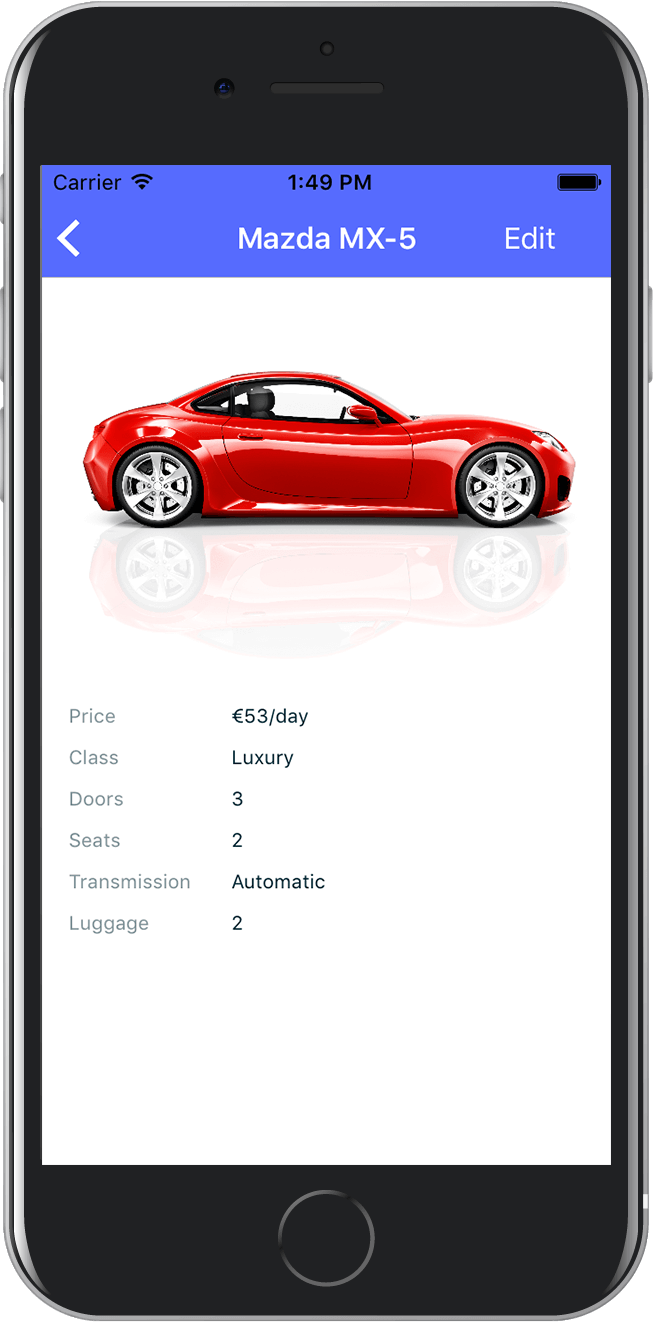
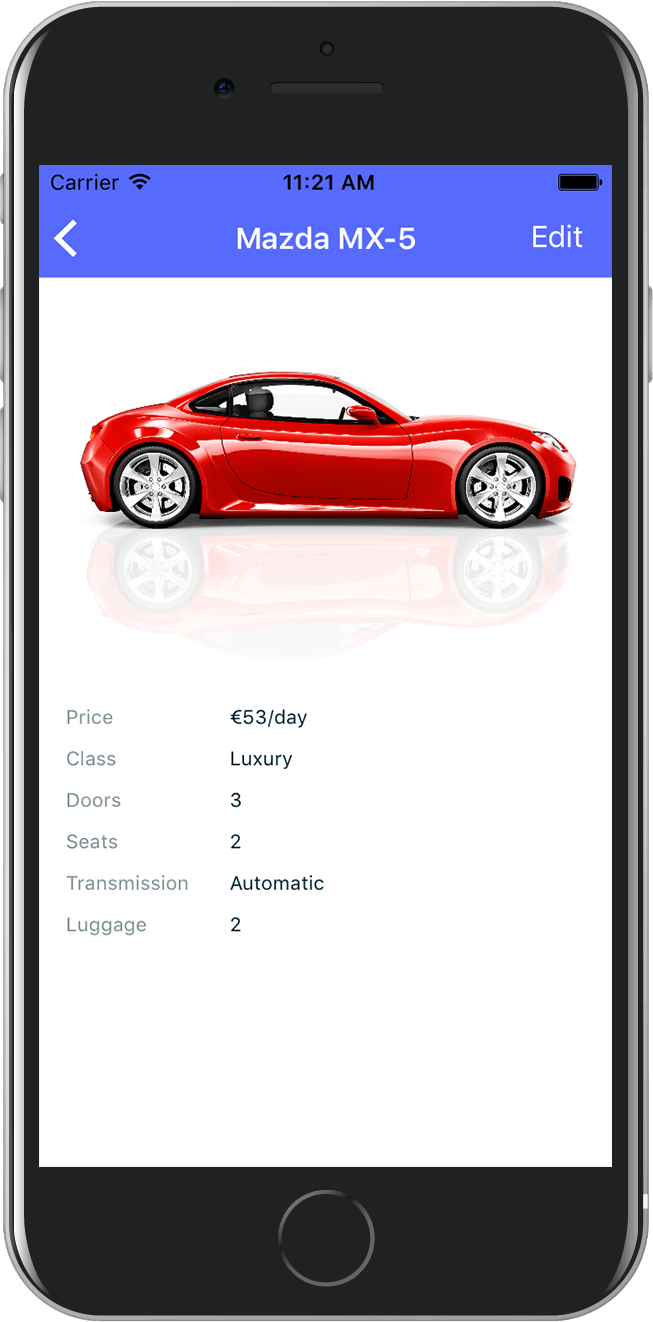
UI fixes (#43)
* Ui fizes

 - Fix anction items right offset  - #346458
 - Add missing page transitions

* Hide back button on list page for ios

* Update detail page image

* Remove lint error

diff --git a/cars/car-detail-edit/car-detail-edit.component.ts b/cars/car-detail-edit/car-detail-edit.component.ts
@@ -139,7 +139,15 @@ export class CarDetailEditComponent implements OnInit {
         queue.then(() => this._carService.update(this._car))
             .then(() => {
                 this._isUpdating = false;
-                this._routerExtensions.navigate(["/cars"], { clearHistory: true });
+                this._routerExtensions.navigate(["/cars"], {
+                    clearHistory: true,
+                    animated: true,
+                    transition: {
+                        name: "slideBottom",
+                        duration: 200,
+                        curve: "ease"
+                    }
+                });
             })
             .catch((errorMessage: any) => {
                 this._isUpdating = false;
@@ -153,7 +161,15 @@ export class CarDetailEditComponent implements OnInit {
         const readOnlyMessage = "Check out the \"Firebase database setup\" section in the readme file to make it editable."; // tslint:disable-line:max-line-length
         const queue = Promise.resolve();
         queue.then(() => alert({ title: "Read-Only Template!", message: readOnlyMessage, okButtonText: "Ok" }))
-            .then(() => this._routerExtensions.navigate(["/cars"], { clearHistory: true }));
+            .then(() => this._routerExtensions.navigate(["/cars"], {
+                clearHistory: true,
+                animated: true,
+                transition: {
+                    name: "slideBottom",
+                    duration: 200,
+                    curve: "ease"
+                }
+            }));
     }
 
     onImageAddRemove(args): void {

diff --git a/cars/car-detail-edit/car-detail-edit.component.html b/cars/car-detail-edit/car-detail-edit.component.html
@@ -2,11 +2,11 @@
     <!--HACK - we should remove the navigation button-->
     <NavigationButton visibility="collapsed"></NavigationButton>
     <ActionItem ios.position="left" android.position="left" (tap)="onCancelButtonTap()">
-        <Label text="Cancel" class="action-item p-r-15"></Label>
+        <Label text="Cancel" class="action-item"></Label>
     </ActionItem>
     <Label class="action-bar-title" text="Edit Car Details" horizontalAlignment="center"></Label>
     <ActionItem ios.position="right" android.position="right" (tap)="onDoneButtonTap()">
-        <Label text="Done" class="action-item p-r-15"></Label>
+        <Label text="Done" class="action-item"></Label>
     </ActionItem>
 </ActionBar>
 

diff --git a/cars/car-detail/car-detail.component.ts b/cars/car-detail/car-detail.component.ts
@@ -61,6 +61,14 @@ export class CarDetailComponent implements OnInit {
     * Check out the edit page in the /cars/car-detail-edit folder.
     *************************************************************/
     onEditButtonTap(): void {
-        this._routerExtensions.navigate(["/cars/car-detail-edit", this._car.id]);
+        this._routerExtensions.navigate(["/cars/car-detail-edit", this._car.id],
+        {
+            animated: true,
+            transition: {
+                name: "slideTop",
+                duration: 200,
+                curve: "ease"
+            }
+        });
     }
 }

diff --git a/cars/car-list.component.ts b/cars/car-list.component.ts
@@ -64,6 +64,14 @@ export class CarListComponent implements OnInit {
     onCarItemTap(args: ListViewEventData): void {
         const tappedCarItem = args.view.bindingContext;
 
-        this._routerExtensions.navigate(["/cars/car-detail", tappedCarItem.id]);
+        this._routerExtensions.navigate(["/cars/car-detail", tappedCarItem.id],
+        {
+            animated: true,
+            transition: {
+                name: "slide",
+                duration: 200,
+                curve: "ease"
+            }
+        });
     }
 }

diff --git a/cars/car-detail/car-detail.component.html b/cars/car-detail/car-detail.component.html
@@ -8,7 +8,7 @@
         ios.position="right" 
         android.position="right" 
         (tap)="onEditButtonTap()">
-        <Label text="Edit" class="action-item p-r-15"></Label>
+        <Label text="Edit" class="action-item"></Label>
     </ActionItem>
 </ActionBar>
 

diff --git a/cars/car-list.component.html b/cars/car-list.component.html
@@ -1,4 +1,6 @@
 <ActionBar class="action-bar">
+    <!-- Should remove the navigation button -->
+    <NavigationButton ios:visibility="collapsed"></NavigationButton>
     <Label class="action-bar-title" text="Browse" horizontalAlignment="center"></Label>
 </ActionBar>
 

diff --git a/platform.android.scss b/platform.android.scss
@@ -9,3 +9,6 @@
 @import '~nativescript-theme-core/scss/platforms/index.android';
 
 // Place any CSS rules you want to apply only on Android here
+.action-item {
+    padding-right: 10;
+}
